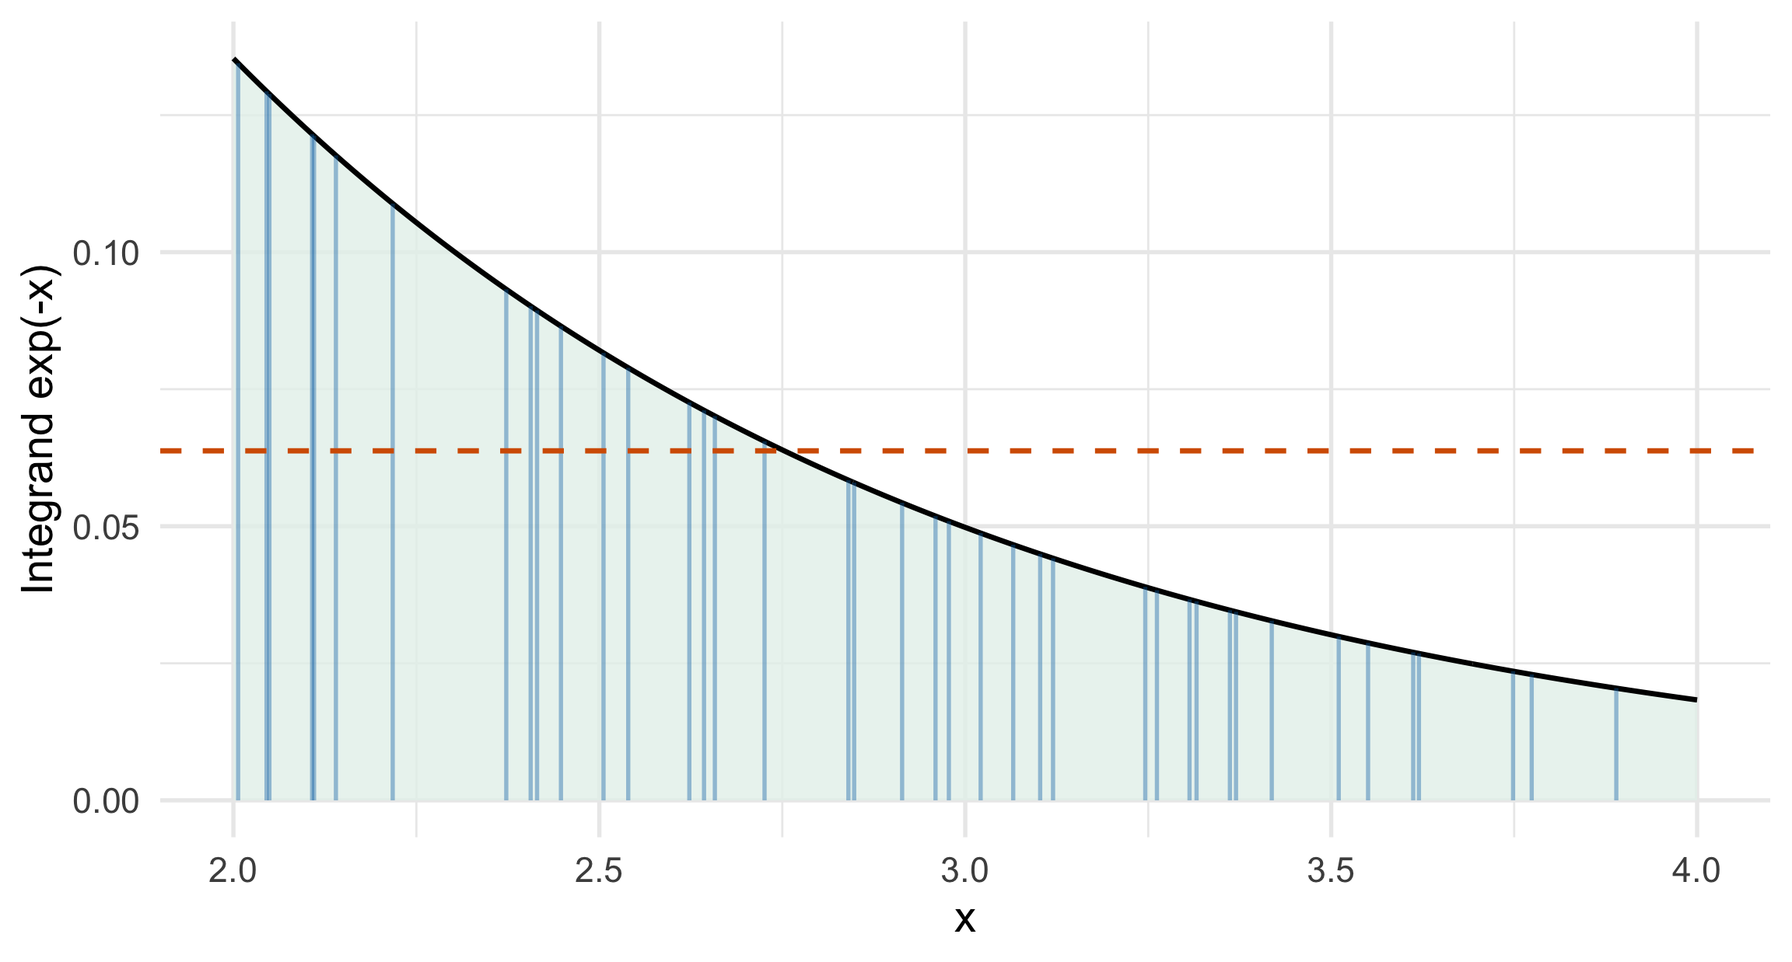
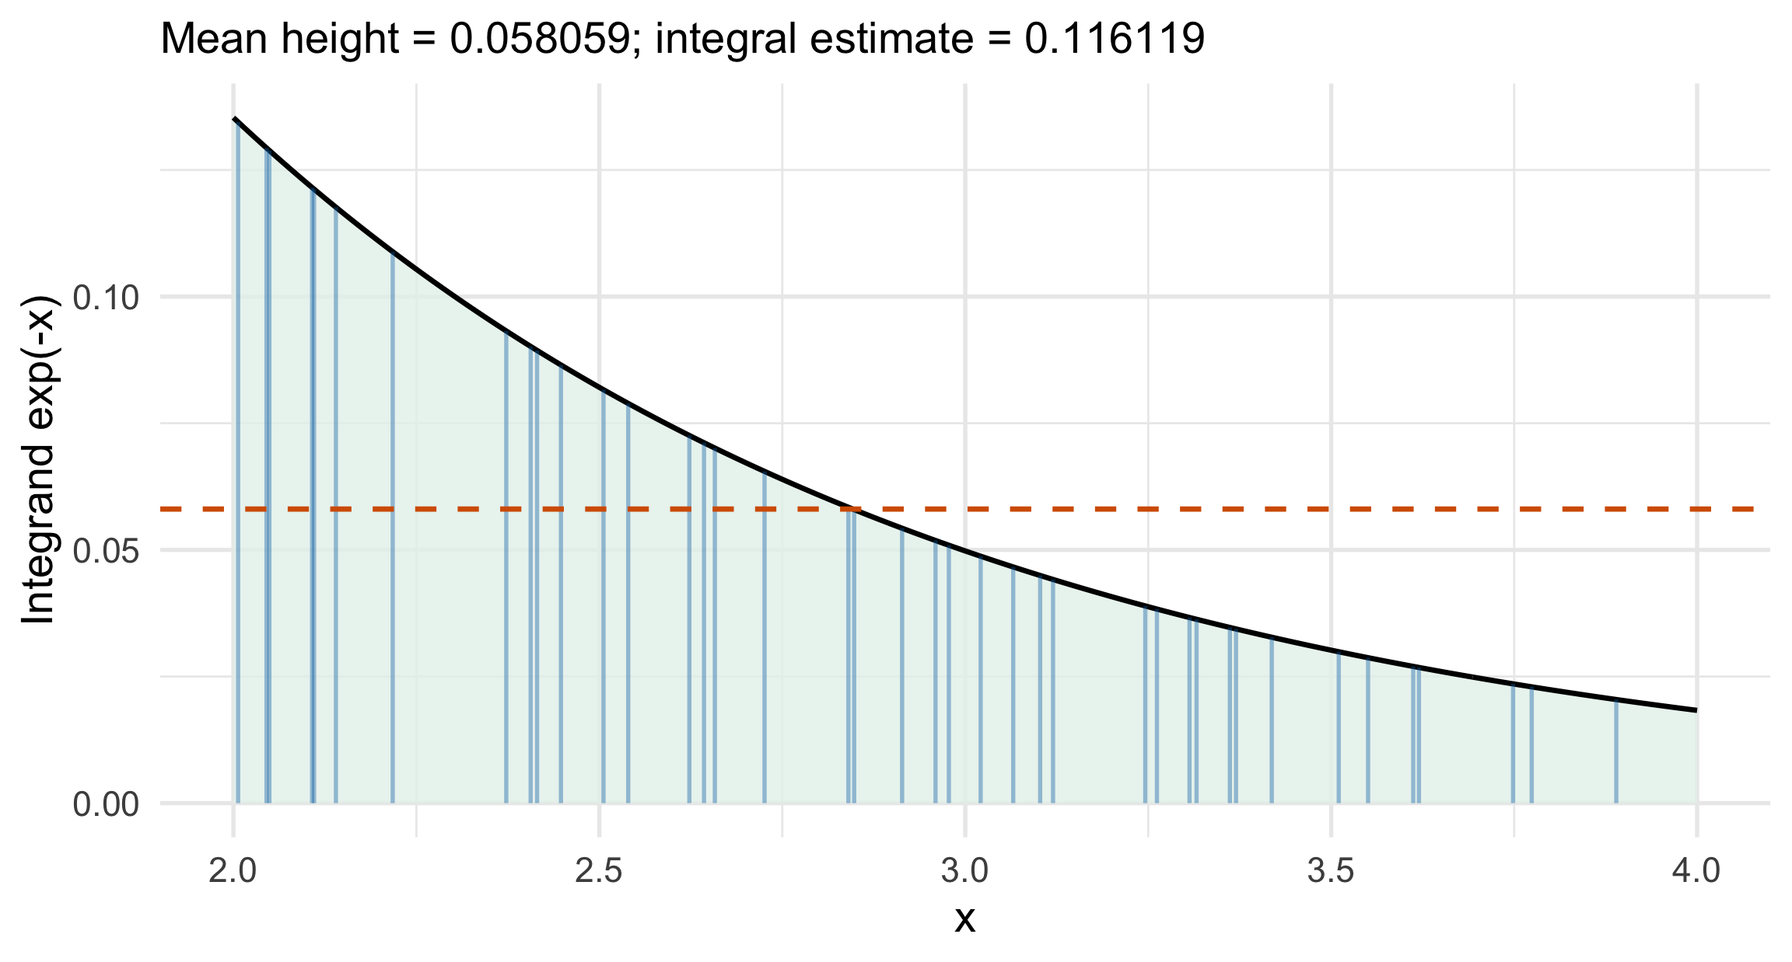
Align Monte Carlo integral figure with printed simulation estimate

diff --git a/_book/05-monte-carlo.html b/_book/05-monte-carlo.html
@@ -525,7 +525,7 @@ window.Quarto = {
 <span id="cb4-21"><a href="#cb4-21" aria-hidden="true" tabindex="-1"></a>  <span class="fu">theme</span>(<span class="at">legend.position =</span> <span class="st">"none"</span>, <span class="at">strip.text =</span> <span class="fu">element_text</span>(<span class="at">size =</span> <span class="dv">12</span>))</span></code></pre></div><button title="Copy to Clipboard" class="code-copy-button"><i class="bi"></i></button></div>
 </details>
 <div class="cell-output-display">
-<div id="fig-mc-shop-reruns" class="quarto-float quarto-figure quarto-figure-center anchored" alt="Two panels show estimated shortage probabilities across 30 runs. Estimates based on 50 days fluctuate more than estimates based on 1,000 days. Both are near the same dashed target line at 41.6 percent." data-fig-align="center">
+<div id="fig-mc-shop-reruns" class="quarto-float quarto-figure quarto-figure-center anchored" data-fig-align="center" alt="Two panels show estimated shortage probabilities across 30 runs. Estimates based on 50 days fluctuate more than estimates based on 1,000 days. Both are near the same dashed target line at 41.6 percent.">
 <figure class="quarto-float quarto-float-fig figure">
 <div aria-describedby="fig-mc-shop-reruns-caption-0ceaefa1-69ba-4598-a22c-09a6ac19f8ca">
 <img src="05-monte-carlo_files/figure-html/fig-mc-shop-reruns-1.png" class="img-fluid quarto-figure quarto-figure-center figure-img" alt="Two panels show estimated shortage probabilities across 30 runs. Estimates based on 50 days fluctuate more than estimates based on 1,000 days. Both are near the same dashed target line at 41.6 percent." width="1296">
@@ -578,7 +578,7 @@ Figure&nbsp;5.1: Each point is one complete simulation run, not one day. Both pa
 </div>
 <div class="cell" data-layout-align="center">
 <div class="cell-output-display">
-<div id="fig-mc-workflow" class="quarto-float quarto-figure quarto-figure-center anchored" alt="Four boxes: choose the target, draw inputs, calculate values, and average with MCSE." data-fig-align="center">
+<div id="fig-mc-workflow" class="quarto-float quarto-figure quarto-figure-center anchored" data-fig-align="center" alt="Four boxes: choose the target, draw inputs, calculate values, and average with MCSE.">
 <figure class="quarto-float quarto-float-fig figure">
 <div aria-describedby="fig-mc-workflow-caption-0ceaefa1-69ba-4598-a22c-09a6ac19f8ca">
 <img src="05-monte-carlo_files/figure-html/fig-mc-workflow-1.png" class="img-fluid quarto-figure quarto-figure-center figure-img" alt="Four boxes: choose the target, draw inputs, calculate values, and average with MCSE." width="1296">
@@ -641,7 +641,7 @@ Figure&nbsp;5.2: Choose the answer you want, simulate inputs, calculate one valu
 <span id="cb7-11"><a href="#cb7-11" aria-hidden="true" tabindex="-1"></a>  <span class="fu">theme</span>(<span class="at">legend.position =</span> <span class="st">"bottom"</span>)</span></code></pre></div><button title="Copy to Clipboard" class="code-copy-button"><i class="bi"></i></button></div>
 </details>
 <div class="cell-output-display">
-<div id="fig-mc-pi" class="quarto-float quarto-figure quarto-figure-center anchored" alt="A quarter circle inside the unit square, with blue points inside and orange points outside." data-fig-align="center">
+<div id="fig-mc-pi" class="quarto-float quarto-figure quarto-figure-center anchored" data-fig-align="center" alt="A quarter circle inside the unit square, with blue points inside and orange points outside.">
 <figure class="quarto-float quarto-float-fig figure">
 <div aria-describedby="fig-mc-pi-caption-0ceaefa1-69ba-4598-a22c-09a6ac19f8ca">
 <img src="05-monte-carlo_files/figure-html/fig-mc-pi-1.png" class="img-fluid quarto-figure quarto-figure-center figure-img" alt="A quarter circle inside the unit square, with blue points inside and orange points outside." width="1152">
@@ -670,35 +670,37 @@ Figure&nbsp;5.3: Uniform points turn the area ratio into a success probability. 
 <span id="cb8-2"><a href="#cb8-2" aria-hidden="true" tabindex="-1"></a>N <span class="ot">&lt;-</span> <span class="dv">10000</span></span>
 <span id="cb8-3"><a href="#cb8-3" aria-hidden="true" tabindex="-1"></a>x <span class="ot">&lt;-</span> <span class="fu">runif</span>(N, <span class="dv">2</span>, <span class="dv">4</span>)</span>
 <span id="cb8-4"><a href="#cb8-4" aria-hidden="true" tabindex="-1"></a>y24 <span class="ot">&lt;-</span> <span class="dv">2</span> <span class="sc">*</span> <span class="fu">exp</span>(<span class="sc">-</span>x)  <span class="co"># width times the function value</span></span>
-<span id="cb8-5"><a href="#cb8-5" aria-hidden="true" tabindex="-1"></a><span class="fu">c</span>(<span class="at">estimate =</span> <span class="fu">mean</span>(y24), <span class="at">exact =</span> <span class="fu">exp</span>(<span class="sc">-</span><span class="dv">2</span>) <span class="sc">-</span> <span class="fu">exp</span>(<span class="sc">-</span><span class="dv">4</span>))</span>
-<span id="cb8-6"><a href="#cb8-6" aria-hidden="true" tabindex="-1"></a><span class="co">#&gt;  estimate     exact </span></span>
-<span id="cb8-7"><a href="#cb8-7" aria-hidden="true" tabindex="-1"></a><span class="co">#&gt; 0.1161185 0.1170196</span></span></code></pre></div><button title="Copy to Clipboard" class="code-copy-button"><i class="bi"></i></button></div>
+<span id="cb8-5"><a href="#cb8-5" aria-hidden="true" tabindex="-1"></a><span class="fu">c</span>(<span class="at">mean_height =</span> <span class="fu">mean</span>(y24) <span class="sc">/</span> <span class="dv">2</span>,</span>
+<span id="cb8-6"><a href="#cb8-6" aria-hidden="true" tabindex="-1"></a>  <span class="at">estimate =</span> <span class="fu">mean</span>(y24), <span class="at">exact =</span> <span class="fu">exp</span>(<span class="sc">-</span><span class="dv">2</span>) <span class="sc">-</span> <span class="fu">exp</span>(<span class="sc">-</span><span class="dv">4</span>))</span>
+<span id="cb8-7"><a href="#cb8-7" aria-hidden="true" tabindex="-1"></a><span class="co">#&gt; mean_height    estimate       exact </span></span>
+<span id="cb8-8"><a href="#cb8-8" aria-hidden="true" tabindex="-1"></a><span class="co">#&gt;  0.05805926  0.11611852  0.11701964</span></span></code></pre></div><button title="Copy to Clipboard" class="code-copy-button"><i class="bi"></i></button></div>
 </div>
 <div class="cell" data-layout-align="center">
 <details class="code-fold">
 <summary>Code</summary>
 <div class="code-copy-outer-scaffold"><div class="sourceCode cell-code" id="cb9"><pre class="sourceCode r code-with-copy"><code class="sourceCode r"><span id="cb9-1"><a href="#cb9-1" aria-hidden="true" tabindex="-1"></a>height_grid <span class="ot">&lt;-</span> <span class="fu">data.frame</span>(<span class="at">x =</span> <span class="fu">seq</span>(<span class="dv">2</span>, <span class="dv">4</span>, <span class="at">length.out =</span> <span class="dv">301</span>))</span>
 <span id="cb9-2"><a href="#cb9-2" aria-hidden="true" tabindex="-1"></a>height_grid<span class="sc">$</span>height <span class="ot">&lt;-</span> <span class="fu">exp</span>(<span class="sc">-</span>height_grid<span class="sc">$</span>x)</span>
-<span id="cb9-3"><a href="#cb9-3" aria-hidden="true" tabindex="-1"></a><span class="fu">set.seed</span>(<span class="dv">8670</span>)</span>
-<span id="cb9-4"><a href="#cb9-4" aria-hidden="true" tabindex="-1"></a>height_draws <span class="ot">&lt;-</span> <span class="fu">data.frame</span>(<span class="at">x =</span> <span class="fu">runif</span>(<span class="dv">40</span>, <span class="dv">2</span>, <span class="dv">4</span>))</span>
-<span id="cb9-5"><a href="#cb9-5" aria-hidden="true" tabindex="-1"></a>height_draws<span class="sc">$</span>height <span class="ot">&lt;-</span> <span class="fu">exp</span>(<span class="sc">-</span>height_draws<span class="sc">$</span>x)</span>
-<span id="cb9-6"><a href="#cb9-6" aria-hidden="true" tabindex="-1"></a><span class="fu">ggplot</span>(height_grid, <span class="fu">aes</span>(x, height)) <span class="sc">+</span></span>
-<span id="cb9-7"><a href="#cb9-7" aria-hidden="true" tabindex="-1"></a>  <span class="fu">geom_area</span>(<span class="at">fill =</span> <span class="st">"#E6F2EC"</span>, <span class="at">alpha =</span> .<span class="dv">8</span>) <span class="sc">+</span></span>
-<span id="cb9-8"><a href="#cb9-8" aria-hidden="true" tabindex="-1"></a>  <span class="fu">geom_line</span>(<span class="at">color =</span> <span class="st">"black"</span>, <span class="at">linewidth =</span> .<span class="dv">8</span>) <span class="sc">+</span></span>
-<span id="cb9-9"><a href="#cb9-9" aria-hidden="true" tabindex="-1"></a>  <span class="fu">geom_segment</span>(<span class="at">data =</span> height_draws, <span class="fu">aes</span>(<span class="at">xend =</span> x, <span class="at">y =</span> <span class="dv">0</span>, <span class="at">yend =</span> height),</span>
-<span id="cb9-10"><a href="#cb9-10" aria-hidden="true" tabindex="-1"></a>               <span class="at">color =</span> <span class="st">"#0072B2"</span>, <span class="at">alpha =</span> .<span class="dv">4</span>) <span class="sc">+</span></span>
-<span id="cb9-11"><a href="#cb9-11" aria-hidden="true" tabindex="-1"></a>  <span class="fu">geom_hline</span>(<span class="at">yintercept =</span> <span class="fu">mean</span>(height_draws<span class="sc">$</span>height),</span>
-<span id="cb9-12"><a href="#cb9-12" aria-hidden="true" tabindex="-1"></a>             <span class="at">linetype =</span> <span class="st">"dashed"</span>, <span class="at">color =</span> <span class="st">"#D55E00"</span>, <span class="at">linewidth =</span> .<span class="dv">8</span>) <span class="sc">+</span></span>
-<span id="cb9-13"><a href="#cb9-13" aria-hidden="true" tabindex="-1"></a>  <span class="fu">labs</span>(<span class="at">x =</span> <span class="st">"x"</span>, <span class="at">y =</span> <span class="st">"Integrand exp(-x)"</span>)</span></code></pre></div><button title="Copy to Clipboard" class="code-copy-button"><i class="bi"></i></button></div>
+<span id="cb9-3"><a href="#cb9-3" aria-hidden="true" tabindex="-1"></a>height_draws <span class="ot">&lt;-</span> <span class="fu">data.frame</span>(<span class="at">x =</span> x[<span class="dv">1</span><span class="sc">:</span><span class="dv">40</span>])</span>
+<span id="cb9-4"><a href="#cb9-4" aria-hidden="true" tabindex="-1"></a>height_draws<span class="sc">$</span>height <span class="ot">&lt;-</span> <span class="fu">exp</span>(<span class="sc">-</span>height_draws<span class="sc">$</span>x)</span>
+<span id="cb9-5"><a href="#cb9-5" aria-hidden="true" tabindex="-1"></a><span class="fu">ggplot</span>(height_grid, <span class="fu">aes</span>(x, height)) <span class="sc">+</span></span>
+<span id="cb9-6"><a href="#cb9-6" aria-hidden="true" tabindex="-1"></a>  <span class="fu">geom_area</span>(<span class="at">fill =</span> <span class="st">"#E6F2EC"</span>, <span class="at">alpha =</span> .<span class="dv">8</span>) <span class="sc">+</span></span>
+<span id="cb9-7"><a href="#cb9-7" aria-hidden="true" tabindex="-1"></a>  <span class="fu">geom_line</span>(<span class="at">color =</span> <span class="st">"black"</span>, <span class="at">linewidth =</span> .<span class="dv">8</span>) <span class="sc">+</span></span>
+<span id="cb9-8"><a href="#cb9-8" aria-hidden="true" tabindex="-1"></a>  <span class="fu">geom_segment</span>(<span class="at">data =</span> height_draws, <span class="fu">aes</span>(<span class="at">xend =</span> x, <span class="at">y =</span> <span class="dv">0</span>, <span class="at">yend =</span> height),</span>
+<span id="cb9-9"><a href="#cb9-9" aria-hidden="true" tabindex="-1"></a>               <span class="at">color =</span> <span class="st">"#0072B2"</span>, <span class="at">alpha =</span> .<span class="dv">4</span>) <span class="sc">+</span></span>
+<span id="cb9-10"><a href="#cb9-10" aria-hidden="true" tabindex="-1"></a>  <span class="fu">geom_hline</span>(<span class="at">yintercept =</span> <span class="fu">mean</span>(y24) <span class="sc">/</span> <span class="dv">2</span>,</span>
+<span id="cb9-11"><a href="#cb9-11" aria-hidden="true" tabindex="-1"></a>             <span class="at">linetype =</span> <span class="st">"dashed"</span>, <span class="at">color =</span> <span class="st">"#D55E00"</span>, <span class="at">linewidth =</span> .<span class="dv">8</span>) <span class="sc">+</span></span>
+<span id="cb9-12"><a href="#cb9-12" aria-hidden="true" tabindex="-1"></a>  <span class="fu">labs</span>(<span class="at">x =</span> <span class="st">"x"</span>, <span class="at">y =</span> <span class="st">"Integrand exp(-x)"</span>,</span>
+<span id="cb9-13"><a href="#cb9-13" aria-hidden="true" tabindex="-1"></a>       <span class="at">subtitle =</span> <span class="fu">sprintf</span>(<span class="st">"Mean height = %.6f; integral estimate = %.6f"</span>,</span>
+<span id="cb9-14"><a href="#cb9-14" aria-hidden="true" tabindex="-1"></a>                          <span class="fu">mean</span>(y24) <span class="sc">/</span> <span class="dv">2</span>, <span class="fu">mean</span>(y24)))</span></code></pre></div><button title="Copy to Clipboard" class="code-copy-button"><i class="bi"></i></button></div>
 </details>
 <div class="cell-output-display">
-<div id="fig-mc-average-height" class="quarto-float quarto-figure quarto-figure-center anchored" alt="The curve exp(-x) on 2 to 4, vertical segments at sampled x values, and a dashed horizontal line at the sampled average height." data-fig-align="center">
+<div id="fig-mc-average-height" class="quarto-float quarto-figure quarto-figure-center anchored" data-fig-align="center" alt="The curve exp(-x) on 2 to 4, blue vertical segments at the first 40 sampled x values, and an orange dashed line at the average height of all 10,000 draws. The subtitle reports the same mean height and integral estimate as the code output.">
 <figure class="quarto-float quarto-float-fig figure">
 <div aria-describedby="fig-mc-average-height-caption-0ceaefa1-69ba-4598-a22c-09a6ac19f8ca">
-<img src="05-monte-carlo_files/figure-html/fig-mc-average-height-1.png" class="img-fluid quarto-figure quarto-figure-center figure-img" alt="The curve exp(-x) on 2 to 4, vertical segments at sampled x values, and a dashed horizontal line at the sampled average height." width="1152">
+<img src="05-monte-carlo_files/figure-html/fig-mc-average-height-1.png" class="img-fluid quarto-figure quarto-figure-center figure-img" alt="The curve exp(-x) on 2 to 4, blue vertical segments at the first 40 sampled x values, and an orange dashed line at the average height of all 10,000 draws. The subtitle reports the same mean height and integral estimate as the code output." width="1152">
 </div>
 <figcaption class="quarto-float-caption-bottom quarto-float-caption quarto-float-fig" id="fig-mc-average-height-caption-0ceaefa1-69ba-4598-a22c-09a6ac19f8ca">
-Figure&nbsp;5.4: The orange dashed line is the sampled average height. Multiply it by width 2 to estimate the shaded area.
+Figure&nbsp;5.4: The orange dashed line is the average height from all 10,000 draws used in the code output. The blue segments show only the first 40 draws for readability. Multiplying the average height by width 2 gives the displayed integral estimate.
 </figcaption>
 </figure>
 </div>
@@ -767,7 +769,7 @@ Figure&nbsp;5.4: The orange dashed line is the sampled average height. Multiply 
 <span id="cb10-18"><a href="#cb10-18" aria-hidden="true" tabindex="-1"></a>  <span class="fu">theme</span>(<span class="at">legend.position =</span> <span class="st">"none"</span>, <span class="at">strip.text =</span> <span class="fu">element_text</span>(<span class="at">size =</span> <span class="dv">11</span>))</span></code></pre></div><button title="Copy to Clipboard" class="code-copy-button"><i class="bi"></i></button></div>
 </details>
 <div class="cell-output-display">
-<div id="fig-mc-variation" class="quarto-float quarto-figure quarto-figure-center anchored" alt="Side-by-side histograms distinguish the broad spread of individual exp(U) values from the much smaller spread of averages of 100 such values. A dashed vertical line marks the same target in both panels." data-fig-align="center">
+<div id="fig-mc-variation" class="quarto-float quarto-figure quarto-figure-center anchored" data-fig-align="center" alt="Side-by-side histograms distinguish the broad spread of individual exp(U) values from the much smaller spread of averages of 100 such values. A dashed vertical line marks the same target in both panels.">
 <figure class="quarto-float quarto-float-fig figure">
 <div aria-describedby="fig-mc-variation-caption-0ceaefa1-69ba-4598-a22c-09a6ac19f8ca">
 <img src="05-monte-carlo_files/figure-html/fig-mc-variation-1.png" class="img-fluid quarto-figure quarto-figure-center figure-img" alt="Side-by-side histograms distinguish the broad spread of individual exp(U) values from the much smaller spread of averages of 100 such values. A dashed vertical line marks the same target in both panels." width="1296">
@@ -947,7 +949,7 @@ A_k=\frac{e^{U_k}+e^{1-U_k}}{2}.
 <span id="cb14-14"><a href="#cb14-14" aria-hidden="true" tabindex="-1"></a>  <span class="fu">theme</span>(<span class="at">legend.position =</span> <span class="st">"bottom"</span>)</span></code></pre></div><button title="Copy to Clipboard" class="code-copy-button"><i class="bi"></i></button></div>
 </details>
 <div class="cell-output-display">
-<div id="fig-mc-antithetic" class="quarto-float quarto-figure quarto-figure-center anchored" alt="The curves exp(U) and exp(1-U) move in opposite directions. Their pair average is flatter and stays close to the target." data-fig-align="center">
+<div id="fig-mc-antithetic" class="quarto-float quarto-figure quarto-figure-center anchored" data-fig-align="center" alt="The curves exp(U) and exp(1-U) move in opposite directions. Their pair average is flatter and stays close to the target.">
 <figure class="quarto-float quarto-float-fig figure">
 <div aria-describedby="fig-mc-antithetic-caption-0ceaefa1-69ba-4598-a22c-09a6ac19f8ca">
 <img src="05-monte-carlo_files/figure-html/fig-mc-antithetic-1.png" class="img-fluid quarto-figure quarto-figure-center figure-img" alt="The curves exp(U) and exp(1-U) move in opposite directions. Their pair average is flatter and stays close to the target." width="1152">
@@ -1012,7 +1014,7 @@ Y_{\mathrm{adj}}=e^U+c(U-0.5).
 <span id="cb16-12"><a href="#cb16-12" aria-hidden="true" tabindex="-1"></a>  <span class="fu">theme</span>(<span class="at">legend.position =</span> <span class="st">"bottom"</span>)</span></code></pre></div><button title="Copy to Clipboard" class="code-copy-button"><i class="bi"></i></button></div>
 </details>
 <div class="cell-output-display">
-<div id="fig-mc-control" class="quarto-float quarto-figure quarto-figure-center anchored" alt="The original contribution exp(U) increases steeply; the adjusted contribution stays close to the expectation. Both are plotted on the same vertical scale." data-fig-align="center">
+<div id="fig-mc-control" class="quarto-float quarto-figure quarto-figure-center anchored" data-fig-align="center" alt="The original contribution exp(U) increases steeply; the adjusted contribution stays close to the expectation. Both are plotted on the same vertical scale.">
 <figure class="quarto-float quarto-float-fig figure">
 <div aria-describedby="fig-mc-control-caption-0ceaefa1-69ba-4598-a22c-09a6ac19f8ca">
 <img src="05-monte-carlo_files/figure-html/fig-mc-control-1.png" class="img-fluid quarto-figure quarto-figure-center figure-img" alt="The original contribution exp(U) increases steeply; the adjusted contribution stays close to the expectation. Both are plotted on the same vertical scale." width="1152">
@@ -1136,7 +1138,7 @@ Figure&nbsp;5.7: The adjusted curve is flatter. Both curves have mean e - 1 unde
 <span id="cb18-12"><a href="#cb18-12" aria-hidden="true" tabindex="-1"></a>  <span class="fu">theme</span>(<span class="at">legend.position =</span> <span class="st">"none"</span>)</span></code></pre></div><button title="Copy to Clipboard" class="code-copy-button"><i class="bi"></i></button></div>
 </details>
 <div class="cell-output-display">
-<div id="fig-mc-method-comparison" class="quarto-float quarto-figure quarto-figure-center anchored" alt="Boxplots for ordinary, antithetic, and controlled estimates, all centered near e minus one; the latter two have visibly smaller spread." data-fig-align="center">
+<div id="fig-mc-method-comparison" class="quarto-float quarto-figure quarto-figure-center anchored" data-fig-align="center" alt="Boxplots for ordinary, antithetic, and controlled estimates, all centered near e minus one; the latter two have visibly smaller spread.">
 <figure class="quarto-float quarto-float-fig figure">
 <div aria-describedby="fig-mc-method-comparison-caption-0ceaefa1-69ba-4598-a22c-09a6ac19f8ca">
 <img src="05-monte-carlo_files/figure-html/fig-mc-method-comparison-1.png" class="img-fluid quarto-figure quarto-figure-center figure-img" alt="Boxplots for ordinary, antithetic, and controlled estimates, all centered near e minus one; the latter two have visibly smaller spread." width="1152">
@@ -1301,7 +1303,7 @@ N\geq\frac{1.96^2\sigma_Y^2}{h^2}.
 <span id="cb19-18"><a href="#cb19-18" aria-hidden="true" tabindex="-1"></a>  <span class="fu">theme</span>(<span class="at">legend.position =</span> <span class="st">"bottom"</span>)</span></code></pre></div><button title="Copy to Clipboard" class="code-copy-button"><i class="bi"></i></button></div>
 </details>
 <div class="cell-output-display">
-<div id="fig-mc-precision" class="quarto-float quarto-figure quarto-figure-center anchored" alt="Empirical standard deviations at increasing sample sizes track a decreasing theoretical curve on logarithmic axes." data-fig-align="center">
+<div id="fig-mc-precision" class="quarto-float quarto-figure quarto-figure-center anchored" data-fig-align="center" alt="Empirical standard deviations at increasing sample sizes track a decreasing theoretical curve on logarithmic axes.">
 <figure class="quarto-float quarto-float-fig figure">
 <div aria-describedby="fig-mc-precision-caption-0ceaefa1-69ba-4598-a22c-09a6ac19f8ca">
 <img src="05-monte-carlo_files/figure-html/fig-mc-precision-1.png" class="img-fluid quarto-figure quarto-figure-center figure-img" alt="Empirical standard deviations at increasing sample sizes track a decreasing theoretical curve on logarithmic axes." width="1152">
@@ -1455,7 +1457,7 @@ c^*=-\frac{\operatorname{Cov}(Y,C)}{\operatorname{Var}(C)},
 <span id="cb24-23"><a href="#cb24-23" aria-hidden="true" tabindex="-1"></a>  <span class="fu">theme</span>(<span class="at">legend.position =</span> <span class="st">"bottom"</span>)</span></code></pre></div><button title="Copy to Clipboard" class="code-copy-button"><i class="bi"></i></button></div>
 </details>
 <div class="cell-output-display">
-<div id="fig-mc-cdf-variance" class="quarto-float quarto-figure quarto-figure-center anchored" alt="Contribution variance versus x, comparing indicator and uniform-integral methods; the curves cross as x increases." data-fig-align="center">
+<div id="fig-mc-cdf-variance" class="quarto-float quarto-figure quarto-figure-center anchored" data-fig-align="center" alt="Contribution variance versus x, comparing indicator and uniform-integral methods; the curves cross as x increases.">
 <figure class="quarto-float quarto-float-fig figure">
 <div aria-describedby="fig-mc-cdf-variance-caption-0ceaefa1-69ba-4598-a22c-09a6ac19f8ca">
 <img src="05-monte-carlo_files/figure-html/fig-mc-cdf-variance-1.png" class="img-fluid quarto-figure quarto-figure-center figure-img" alt="Contribution variance versus x, comparing indicator and uniform-integral methods; the curves cross as x increases." width="1152">
